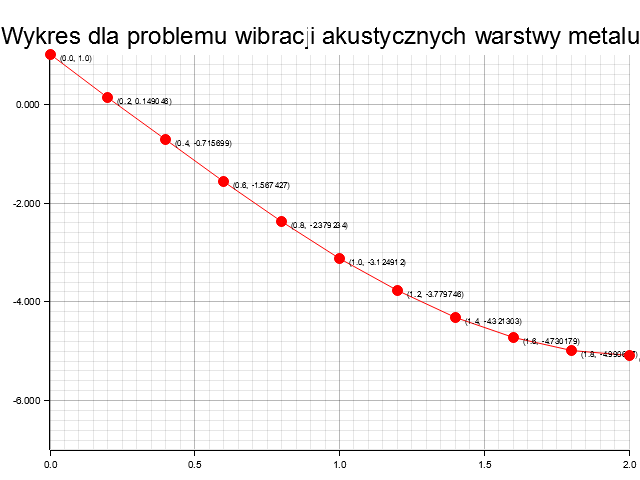
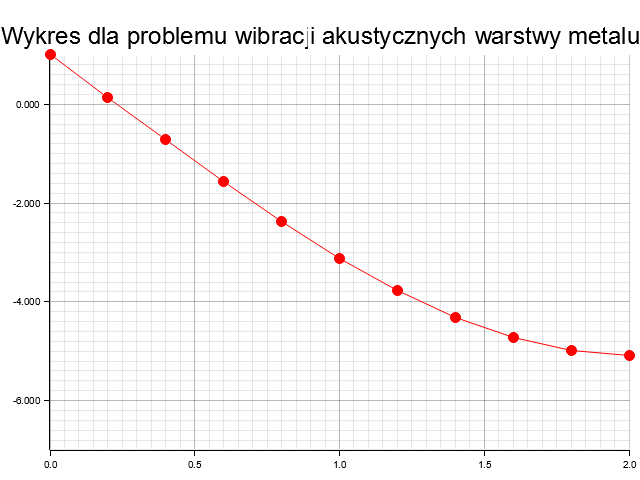
Changed signatures on the graph.

diff --git a/src/main.rs b/src/main.rs
@@ -71,24 +71,35 @@ fn read_input() -> usize {
 }
 
 fn calculate_partial_integral_matrix(k0: f64, k1: f64,iteration: usize,_a_array: &mut ndarray::Array2<f64>,_b_vector: &mut ndarray::Array1<f64>){
+    // używamy 2 pnktowej kwadratury gaussa
+
+    //punkty w układzie odniesienia
     let points:Vec<f64> = vec![-1.0/3f64.sqrt(), 1.0/3f64.sqrt()];
+    //wagi
     let weights = vec![1.0,1.0];
+    // jakobain (przejście między naszymi punktami a tymi wygodnymi ze wzoru)
     let jacobian = (k1-k0)/2.0;
+    // punkt między naszymi 2 punktami
     let middle_point = (k1+k0)/2.0;
 
     //liczymy dla punktu -xi oraz xi
     for i in 0..2 {
 
+        // funkcje kształtu
         let n0 = (1.0 - points[i]) / 2.0;
         let n1 = (1.0 + points[i]) / 2.0;
 
+        // pochodne po tych punktach
         let der_n0_ksi = -0.5;
         let der_n1_ksi = 0.5;
 
+        //zmieniamy pochodne po ksi na pochodne po x
         let der_n0_x = der_n0_ksi / jacobian;
         let der_n1_x = der_n1_ksi / jacobian;
 
+        // obliczamy punkt realny
         let x_real = middle_point + points[i] * jacobian;
+
 
         _a_array[[iteration, iteration]] += (der_n0_x * der_n0_x - n0 * n0) * jacobian * weights[i];
         _a_array[[iteration + 1, iteration]] += (der_n0_x * der_n1_x - n0 * n1) * jacobian * weights[i];
@@ -150,7 +161,6 @@ fn solve_gaussian_elimination(mut a: ndarray::Array2<f64>, mut b: ndarray::Array
             x[i] = 0.0; // Zabezpieczenie
         }
     }
-
     x
 }
 

diff --git a/src/visualisation.rs b/src/visualisation.rs
@@ -46,7 +46,7 @@ pub fn visualize(filename: &str) -> Result<(), Box<dyn std::error::Error>> {
         &|c, s, st| {
             return EmptyElement::at(c)    // We want to construct a composed element on-the-fly
                 + Circle::new((0,0),s,st.filled()) // At this point, the new pixel coordinate is established
-                + Text::new(format!("{:?}", c), (10, 0), ("sans-serif", 10).into_font());
+                //+ Text::new(format!("{:?}", c), (10, 0), ("sans-serif", 10).into_font());
         },
     ))?;
     root.present()?;
